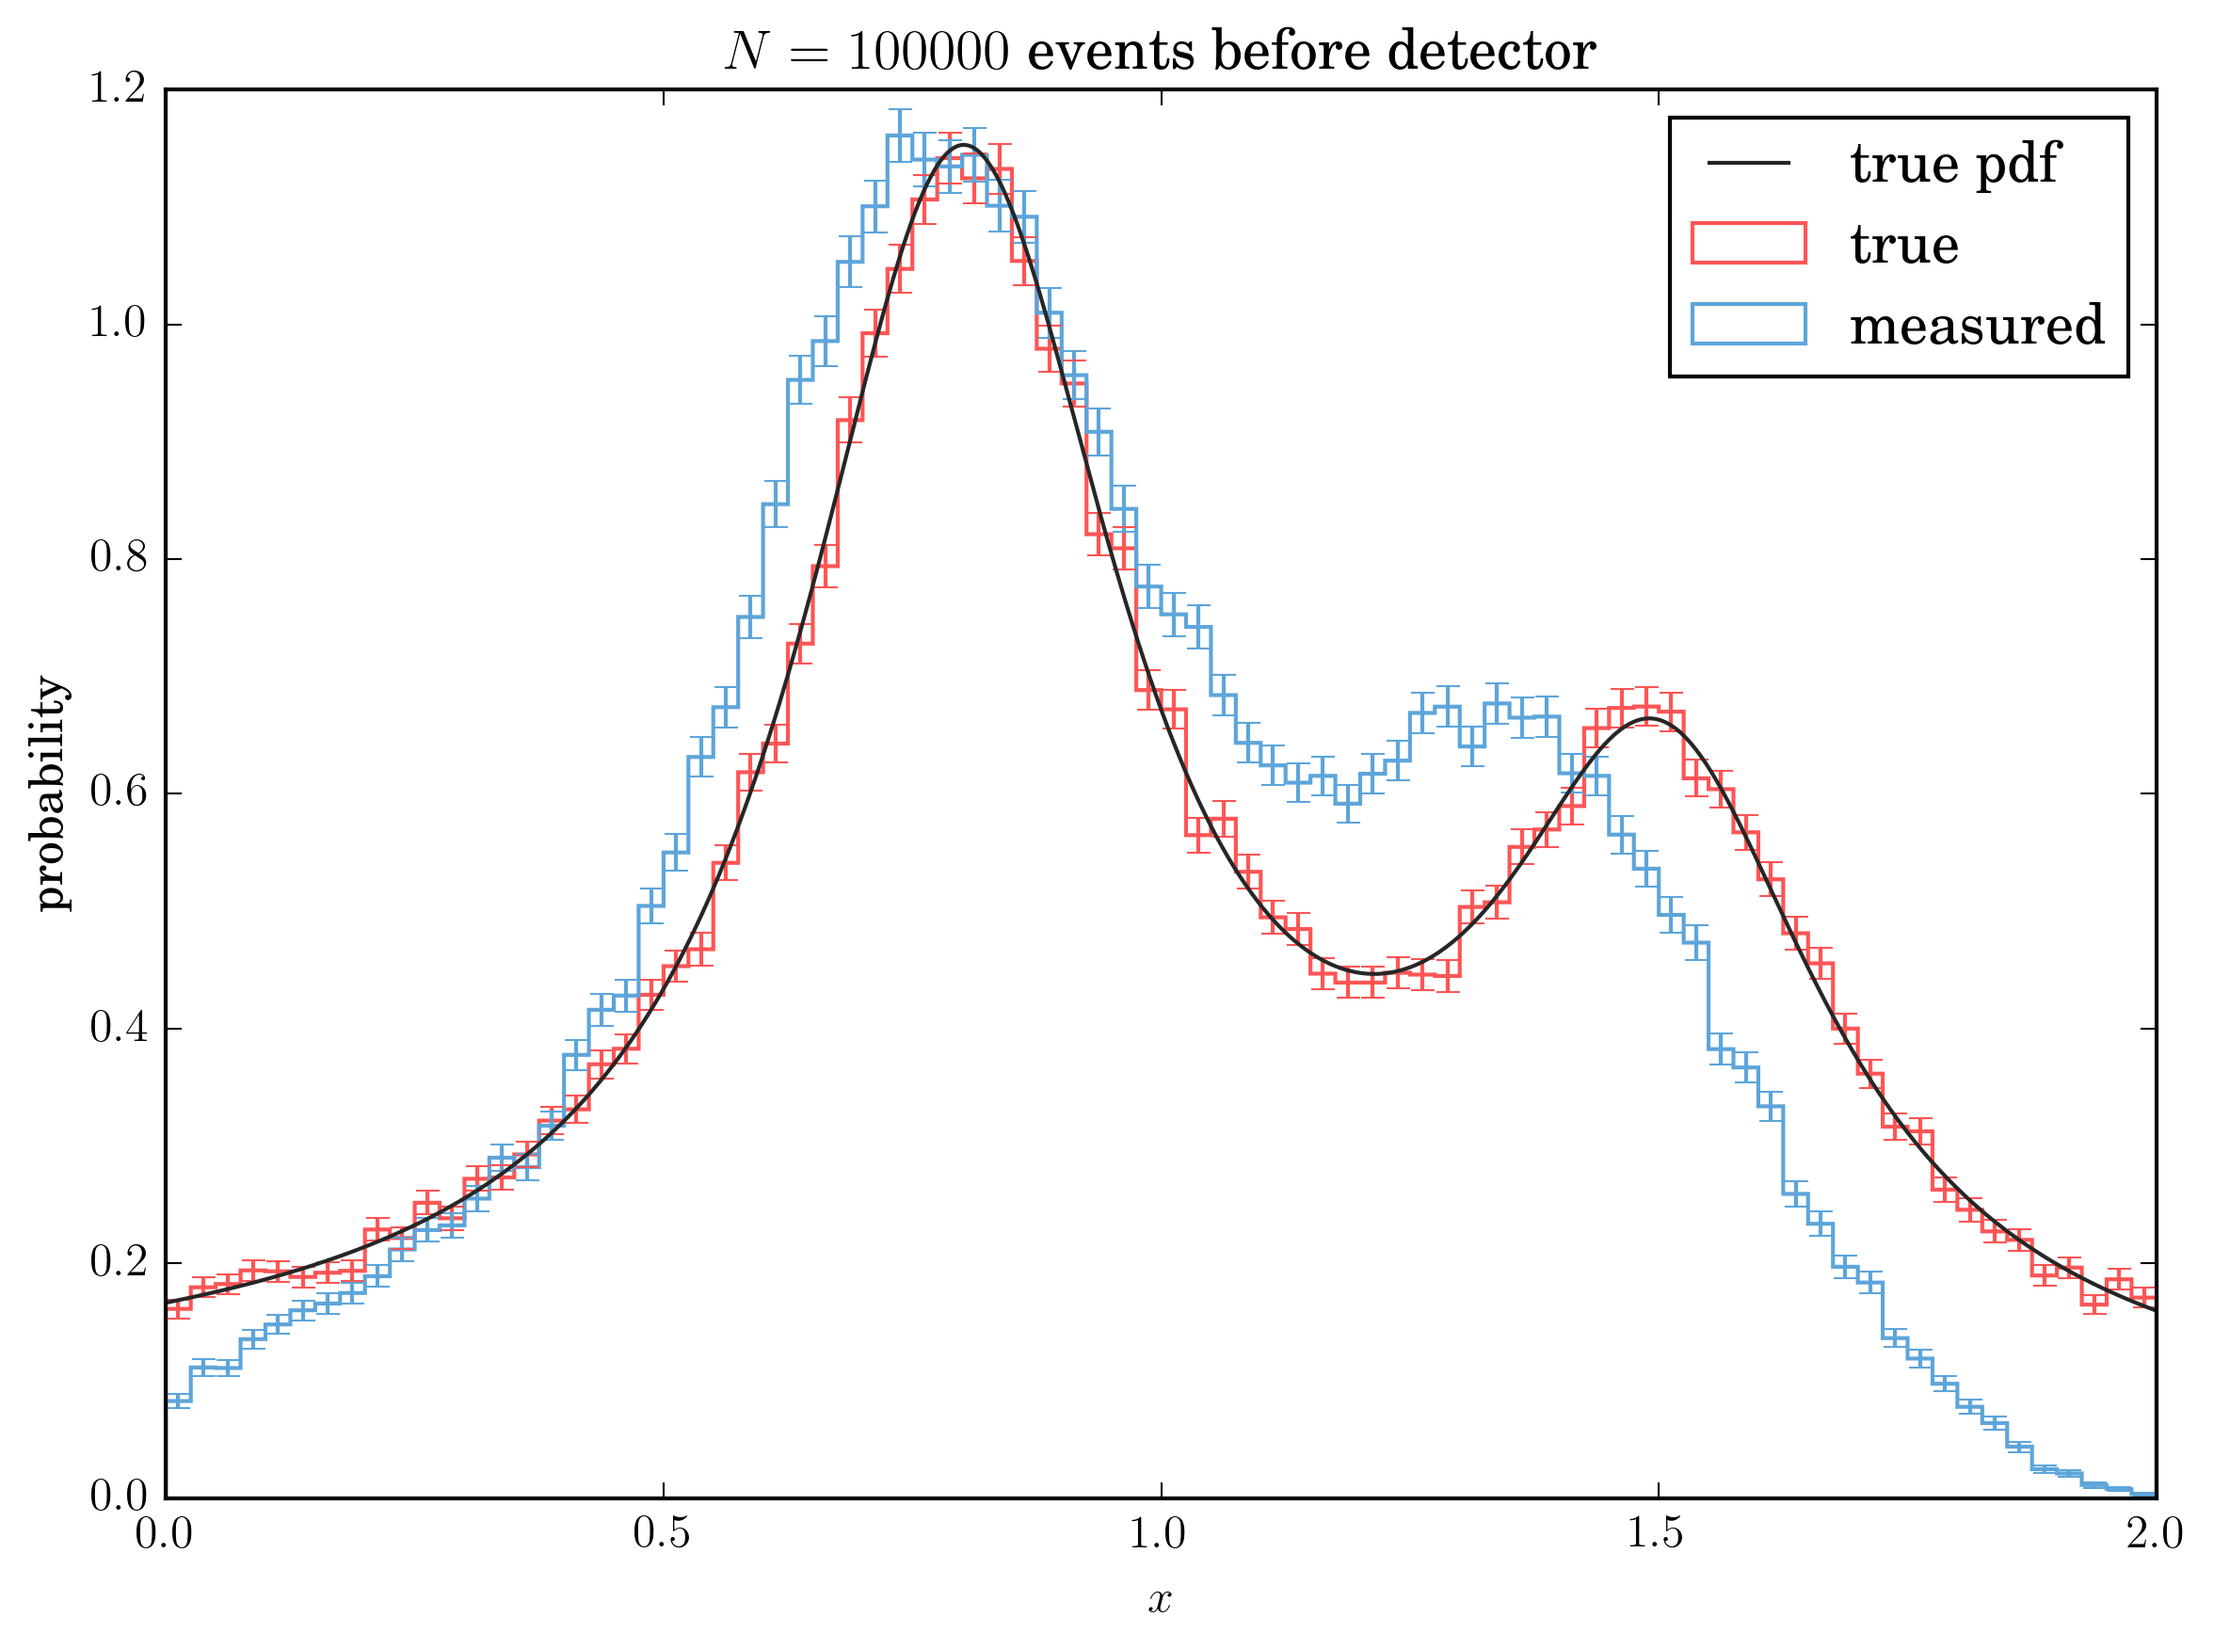
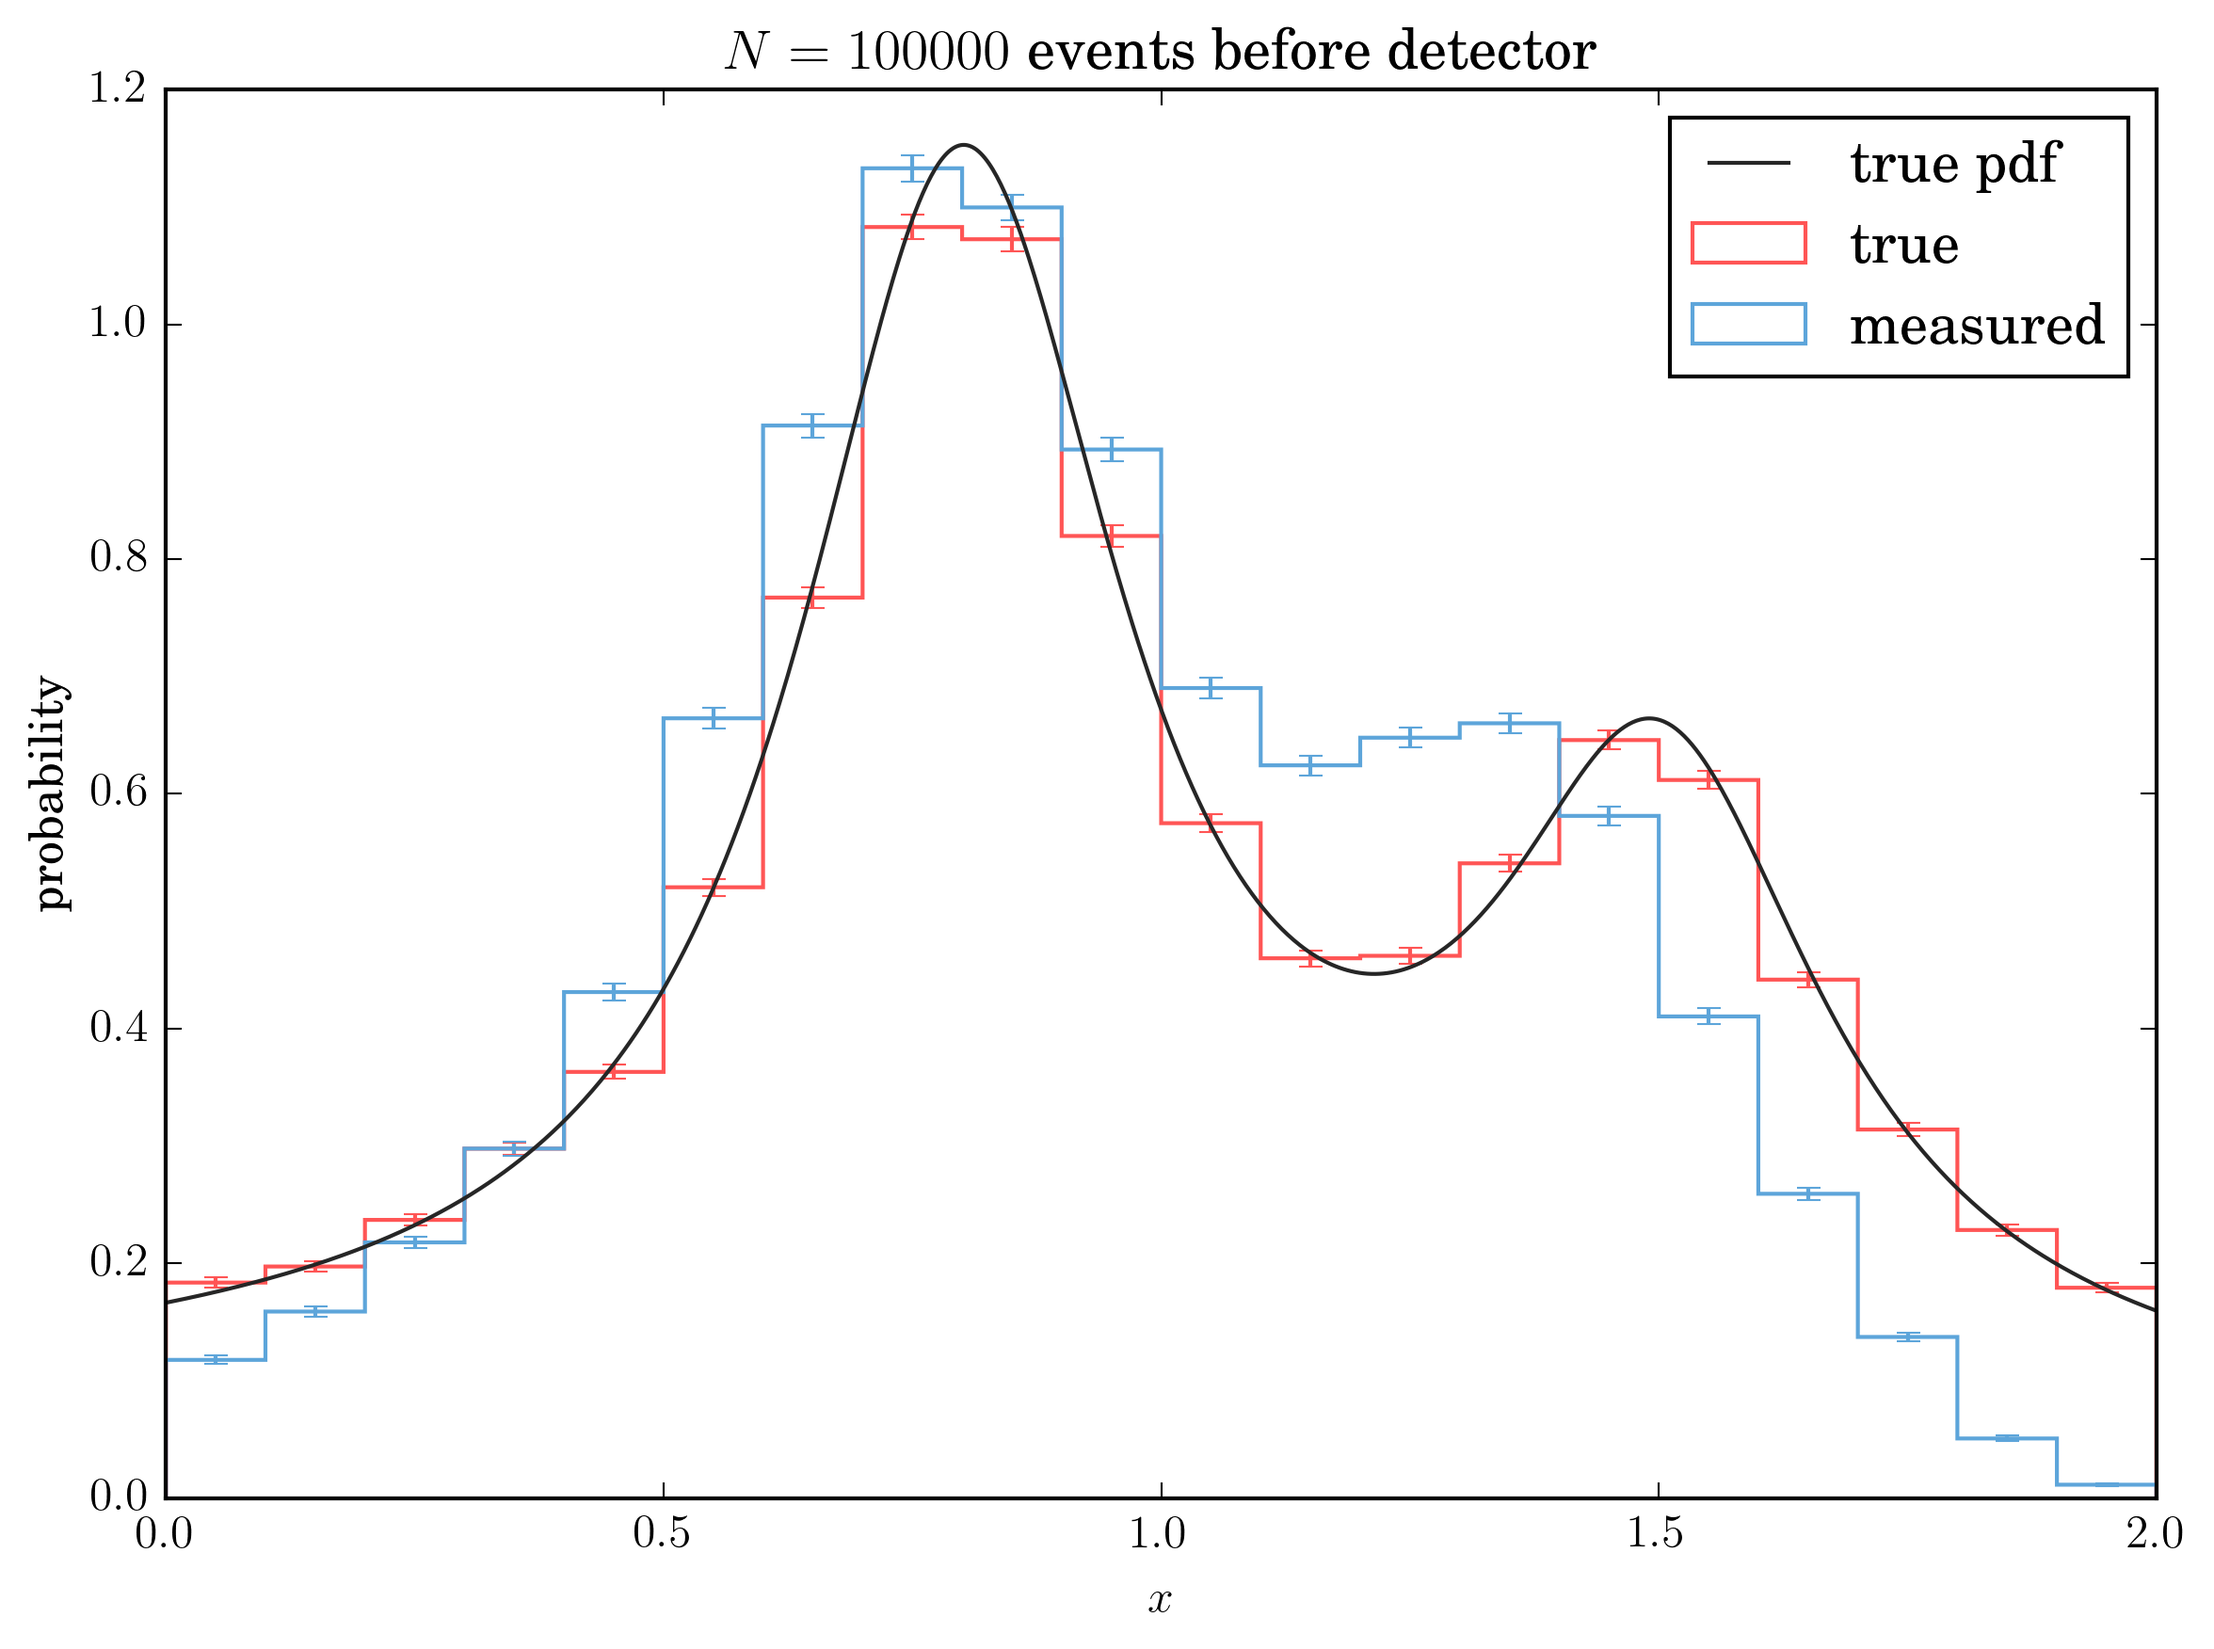
Finished fit method, response matrix is build. Added example plots for response matrix with different measuremen effects.

diff --git a/unfold.py b/unfold.py
@@ -1,5 +1,7 @@
 #-*-coding:utf8-*-
 
+import numpy as np
+
 class unfold():
 	"""
 	Unfolding class. Structure oriented on scikit learn.
@@ -38,16 +40,16 @@ class unfold():
 		"""
 		self.ndof = kwargs.pop("ndof", 10)
 
-		self.range_true = self.kwargs.pop("range_true", [0, 1])
-		self.range_meas = self.kwargs.pop("range_meas", [0, 1])
-		self.range_pred = self.kwargs.pop("range_pred", [0, 1])
+		self.range_true = kwargs.pop("range_true", [0, 1])
+		self.range_meas = kwargs.pop("range_meas", [0, 1])
+		self.range_pred = kwargs.pop("range_pred", [0, 1])
 
-		self.nbins_true = kwagrs.pop("nbins_true", 10)
-		self.nbins_meas = kwagrs.pop("nbins_meas", 10)
-		self.nbins_pred = kwagrs.pop("nbins_pred", 10)
+		self.nbins_true = kwargs.pop("nbins_true", 10)
+		self.nbins_meas = kwargs.pop("nbins_meas", 10)
+		self.nbins_pred = kwargs.pop("nbins_pred", 10)
 
 
-	def fit(self, true, meas):
+	def fit(self, true, meas, meas_weights):
 		"""
 		Fit model to training data from MC.
 
@@ -59,26 +61,51 @@ class unfold():
 		true : ndarray
 			One dimensional unbinned true MC data used to build the
 			response matrix.
-		measured :
+		measured : ndarray
 			One dimensional unbinned measured MC data used to build the
 			response matrix.
+		meas_weights : ndarray
+			Weights per event of the measured distribution.
 		"""
-		# Track bin content on event base to build the response matrix
+		# Create equally spaced bins in given range
 		bins_true = np.linspace(
-			self.range_true[0], self.range_true[1], nbins_true)
+			self.range_true[0], self.range_true[1], self.nbins_true + 1)
 		bins_meas = np.linspace(
-			self.range_meas[0], self.range_meas[1], nbins_meas)
+			self.range_meas[0], self.range_meas[1], self.nbins_meas + 1)
 
-		bin_index_by_event_true = np.digitze(true, bins=nbins_true)
-		bin_index_by_event_meas = np.digitze(meas, bins=nbins_meas)
+		# Get bin indices for each single event
+		bin_index_true = np.digitize(true, bins=bins_true)
+		bin_index_meas = np.digitize(meas, bins=bins_meas)
 
-		return
+		# Build the response matrix A:
+		# The entries of the response matrix A are integers.
+		# Element aij of the matrix A is the number of MC events from bin j
+		# of the true distribution x, which are measured in bin i of the
+		# measured distributioin y.
+		# So A has nbins_meas rows (index i) and nbins_true cols (index j)
+		A = np.zeros((self.nbins_meas, self.nbins_true))
+		# Loop over bin indices and count events
+		for j in np.arange(0, self.nbins_true):
+			for i in np.arange(0, self.nbins_meas):
+				# np.digitize starts with 1 as first bin, so correct for that
+				# by raising the bin indices
+				mask = np.logical_and(
+					bin_index_true == j+1,
+					bin_index_meas == i+1,
+					)
+				# Sum over measured event weights to take the acceptance
+				# into account
+				A[i][j] = np.sum(meas_weights[mask])
+
+		return A
 
 
 	def predict(self):
 		"""
 		Use trained model on prediction data.
 		"""
+
+
 
 		return
 

diff --git a/plot_response_matrix.py b/plot_response_matrix.py
@@ -1,0 +1,81 @@
+#-*-coding:utf8-*-
+
+"""
+Plot the response matrix A build from flat training data.
+
+The plots are read as following:
+  Each column represents one bin j from the true distribution.
+  For each column, the different rows show how the events from true bin j are
+  distributed after the measurement.
+
+The three applied detector effects are clearly visible:
+  1. The shift moves the events awawy from the matrix diagonal
+  2. The smearing blurs the events around the diagonal
+  3. The acceptance lowers the bin content at low and high bin indices
+"""
+
+import numpy as np
+import matplotlib.pyplot as plt
+import mc_data_gen
+import unfold
+
+# Pretty plots, custom colors
+from matplotlib import rc
+plt.rc('text', usetex=True)
+plt.rc('font', family='serif')
+color = {
+         "r" : "#FF5555",
+         "b" : "#5DA5DA",
+         "g" : "#7BAA00",
+         "k" : "#262626",
+         "o" : "#FFA955",
+         "m" : "#9E62C4",
+         "n" : "#9D7331",
+         "p" : "#F590CF",
+         "c" : "#6DE4DF",
+         "y" : "#FFDC55",
+         }
+
+
+N = 100000
+xl = 0
+xh = 2
+
+# mcd = mc_data_gen.LorentzianUnfoldData(N=N, range=[xl, xh])
+mcd = mc_data_gen.FlatUnfoldData(N=N, range=[xl, xh])
+true, meas = mcd.get_mc_sample()
+
+unf = unfold.unfold(
+	range_true=[xl, xh],
+	range_meas=[xl, xh],
+	nbins_true=20,
+	nbins_meas=20,
+	)
+A = unf.fit(true["data"], meas["data"], meas["weight"])
+
+fig, ax = plt.subplots(1, 1)
+
+cax = ax.matshow(A, cmap="bone_r")
+cbar = fig.colorbar(cax)
+cbar.set_label(r"$\log_{10}(a_{ij})$")
+
+ax.set_xlabel(r"bin $i$ of true MC distribution")
+ax.set_ylabel(r"bin $j$ of measured MC distribution")
+
+ax.set_title(r"Response matrix from MC distribution, $N={{{}}}$ events"
+	.format(N))
+ax.grid()
+# ax.set_xlim((-5, 25))
+# ax.set_ylim((25, -5))
+
+# diagonal
+ax.plot([0, 19], [0, 19], color=color["r"])
+
+fig.tight_layout()
+fig.savefig("ResponseMatrix.png", dpi=300, bbox_inches="tight")
+
+
+
+
+
+

diff --git a/plot_mc_data.py b/plot_mc_data.py
@@ -95,7 +95,7 @@ for typ in ["train", "test"]:
 	true, meas = mcd.get_mc_sample()
 
 	fig, ax = plt.subplots(1, 1)
-	nbins = 80
+	nbins = 20
 	normed = True
 	histerr(ax, true["data"], normed=normed, nbins=nbins, range=[xl, xh],
 		weights=true["weight"],
